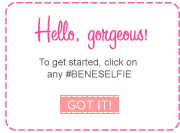
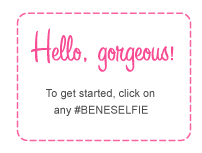
Update and remove headers

Changed region(s): [[0.0278, 0.0, 1.0, 0.9624], [0.0556, 0.9624, 0.9722, 0.9925]]

diff --git a/templates/email.html b/templates/email.html
@@ -22,20 +22,6 @@
 <div id="right-lamp"><img src="{% static 'images/beneselfies-lamp.png' %}"/></div>
 <div id="left-book"><img src="{% static 'images/book-left.png' %}"/></div>
 <div id="right-book"><img src="{% static 'images/book-right.png' %}"/></div>
-<div id="upper-content">
-    <h1>How to play</h1>
-
-    <p>Get that camera clicking by tagging the gorgeous girls (or guys!) that correspond to one of the
-        <em>#BENESELFIES</em> shown in the polaroids that are sitting in your lickers.</p>
-    <ul>
-        <li><span>1</span>Join the party on Facebook!</li>
-        <li><span>2</span>Open up your locker and begin tagging your friends that fit the <em>#BENESELFIES</em></li>
-        <li><span>3</span>Share your polaroids and invite your friends to enter too!</li>
-    </ul>
-    <p>To be on your way to enter our <em>#BENESELFIES</em> contest please sign in with Facebook and fill in your email
-        address. This will only be used to contact you if you're a lucky winner. You will no receive any other emails
-        from us!</p>
-</div>
 <img width="801px" height="1068px" id="locker-door" src="{% static 'images/locker-app-door.png' %}" alt=""
      style="position: relative; display: none">
 
@@ -116,10 +102,7 @@
     <div id="help_close"
          style="background: url('/static/images/got-it.png'); width: 80px; height: 27px; margin-top:10px; margin-left: auto;margin-right: auto;"></div>
 </div>
-<div id="footer">
-    <div><a href="#"><img src="{% static 'images/beneselfies-footer-twitter.png' %}"/></a><a href="#"><img
-            src="{% static 'images/beneselfies-footer-facebook.png' %}"/></a> <em>SHARE THE LOVE!</em></div>
-</div>
+{% include 'footer.html' %}
 <script src="http://code.jquery.com/jquery-migrate-1.2.1.min.js"></script>
 <script src="{% static 'js/jquery.lightbox_me.js' %}"></script>
 <script type="text/javascript">

diff --git a/templates/upload.html b/templates/upload.html
@@ -24,20 +24,6 @@
 <div id="right-lamp"><img src="{% static 'images/beneselfies-lamp.png' %}"/></div>
 <div id="left-book"><img src="{% static 'images/book-left.png' %}"/></div>
 <div id="right-book"><img src="{% static 'images/book-right.png' %}"/></div>
-<div id="upper-content">
-    <h1>How to play</h1>
-
-    <p>Get that camera clicking by tagging the gorgeous girls (or guys!) that correspond to one of the
-        <em>#BENESELFIES</em> shown in the polaroids that are sitting in your lickers.</p>
-    <ul>
-        <li><span>1</span>Join the party on Facebook!</li>
-        <li><span>2</span>Open up your locker and begin tagging your friends that fit the <em>#BENESELFIES</em></li>
-        <li><span>3</span>Share your polaroids and invite your friends to enter too!</li>
-    </ul>
-    <p>To be on your way to enter our <em>#BENESELFIES</em> contest please sign in with Facebook and fill in your email
-        address. This will only be used to contact you if you're a lucky winner. You will no receive any other emails
-        from us!</p>
-</div>
 <img width="801px" height="1068px" id="locker-door" src="{% static 'images/locker-app-door.png' %}" alt=""
      style="position: relative; display: none">
 
@@ -168,11 +154,7 @@
         </div>
     </div>
 </div>
-<div id="footer">
-    <div><a href="#"><img src="{% static 'images/beneselfies-footer-twitter.png' %}"/></a><a href="#"><img
-            src="{% static 'images/beneselfies-footer-facebook.png' %}"/></a> <em>SHARE THE LOVE!</em></div>
-</div>
-
+{% include 'footer.html' %}
 <div id="dialog-confirm" title="Sure love?">
     <p><span class="ui-icon ui-icon-alert" style="float: left; margin: 0 7px 50px 0;"></span>You haven't selected 8
         friend yet! Are you sure your #BENESELFIES?</p>

diff --git a/templates/finish.html b/templates/finish.html
@@ -19,20 +19,6 @@
         <li>Join Us</li>
     </ul>
 </div>
-<div id="upper-content">
-    <h1>How to play</h1>
-
-    <p>Get that camera clicking by tagging the gorgeous girls (or guys!) that correspond to one of the
-        <em>#BENESELFIES</em> shown in the polaroids that are sitting in your lickers.</p>
-    <ul>
-        <li><span>1</span>Join the party on Facebook!</li>
-        <li><span>2</span>Open up your locker and begin tagging your friends that fit the <em>#BENESELFIES</em></li>
-        <li><span>3</span>Share your polaroids and invite your friends to enter too!</li>
-    </ul>
-    <p>To be on your way to enter our <em>#BENESELFIES</em> contest please sign in with Facebook and fill in your email
-        address. This will only be used to contact you if you're a lucky winner. You will no receive any other emails
-        from us!</p>
-</div>
 <div class="content" id="wrap"
      style="width: 700px; height:931.875px; background: url('/static/images/locker-app-open.png'); background-size: 700px 931.875px">
     <div style="margin-top: 44px; margin-right: 45px; padding-left: 5px; padding-right: 5px; color: white; font-size: 20px;
@@ -63,6 +49,7 @@
         </div>
     </div>
 </div>
+{% include 'footer.html' %}
 <script>window.jQuery || document.write('<script src="js/vendor/jquery-1.9.1.min.js"><\/script>')</script>
 <script src="http://connect.facebook.net/en_US/all.js"></script>
 <script src="http://code.jquery.com/jquery-1.10.1.min.js"></script>

diff --git a/templates/home.html b/templates/home.html
@@ -71,10 +71,7 @@
     <img width="700px" height="931.875px" id="locker" src="{% static 'images/locker-app-closed.png' %}" alt=""
          style="position: absolute; top: 0; left: 0">
 </div>
-<div id="footer">
-    <div><a href="#"><img src="{% static 'images/beneselfies-footer-twitter.png' %}"/></a><a href="#"><img
-            src="{% static 'images/beneselfies-footer-facebook.png' %}"/></a> <em>SHARE THE LOVE!</em></div>
-</div>
+{% include 'footer.html' %}
 <script src="http://code.jquery.com/jquery-migrate-1.2.1.min.js"></script>
 <script type="text/javascript">
 

diff --git a/templates/footer.html b/templates/footer.html
@@ -1,0 +1,5 @@
+{% load staticfiles %}
+<div id="footer">
+    <div><a href="#"><img src="{% static 'images/beneselfies-twitter.png' %}"/></a><a href="#"><img
+            src="{% static 'images/beneselfies-facebook.png' %}"/></a> <em>SHARE THE LOVE!</em></div>
+</div>
